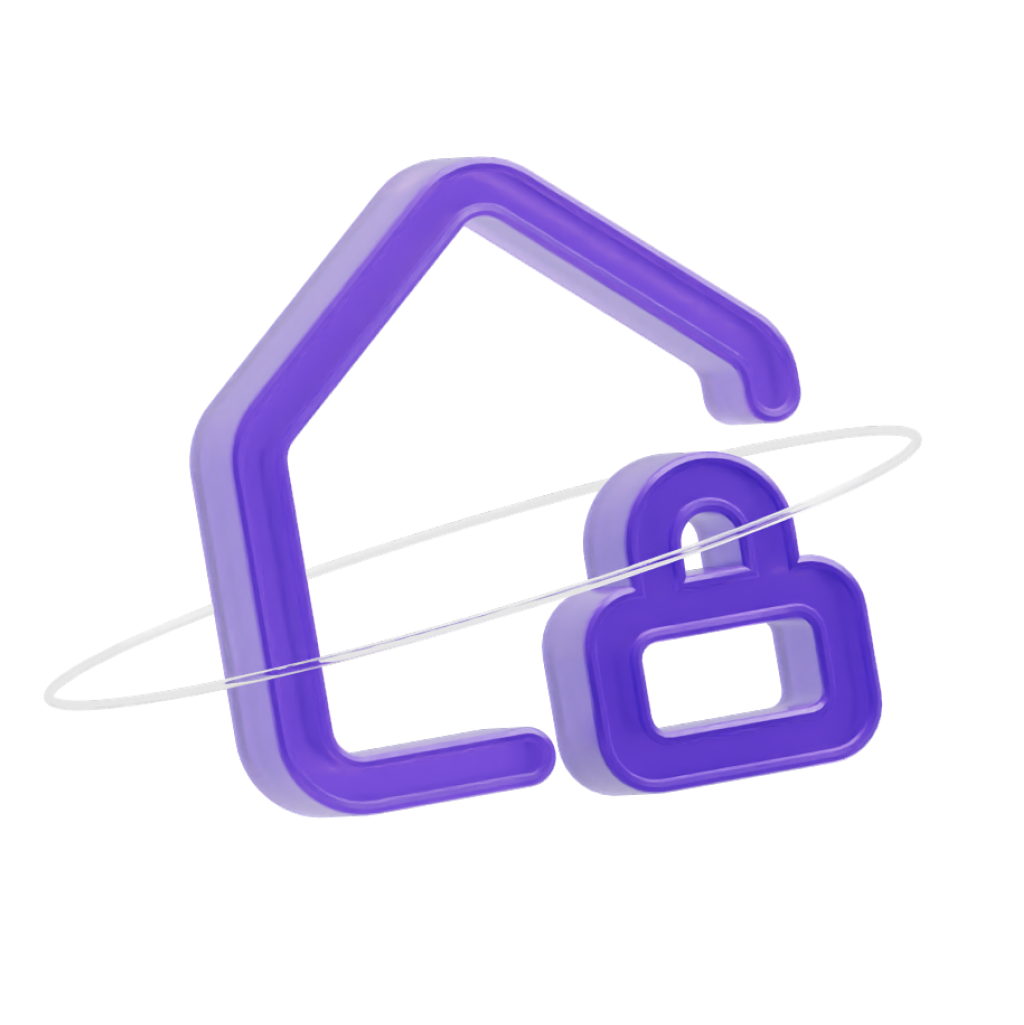
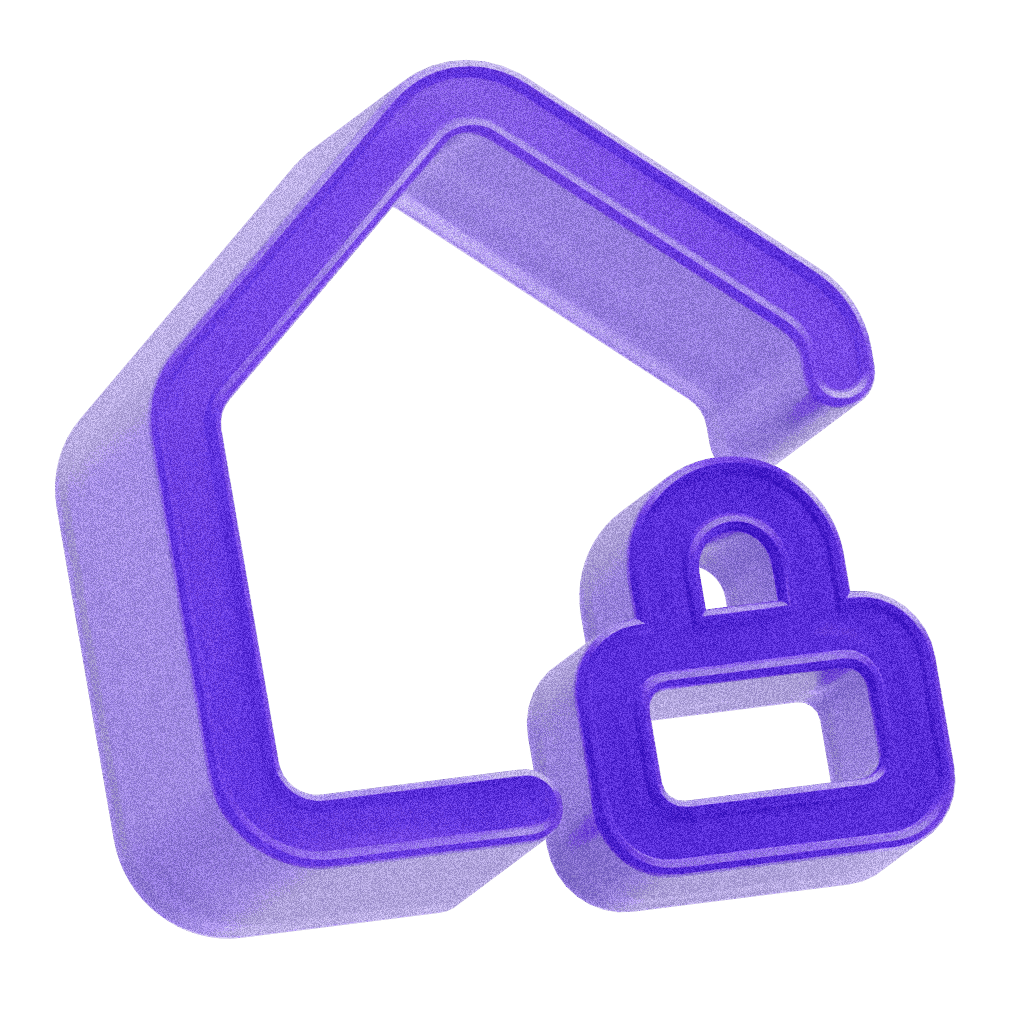
new

diff --git a/premium-styles.css b/premium-styles.css
@@ -243,7 +243,7 @@ h2.h-section{font-size:clamp(2rem,3.5vw,2.75rem);font-weight:800;line-height:1.1
     rgba(255,248,255,.32) 50%,
     rgba(255,255,255,.74) 76%,
     #fff 100%)}
-.hero__grid{position:relative;z-index:1;display:grid;grid-template-columns:1fr 560px;
+.hero__grid{position:relative;z-index:1;display:grid;grid-template-columns:1fr 480px;
   gap:44px;align-items:center}
 .hero__text{padding-top:24px;min-width:0}
 .hero__rating{display:flex;align-items:center;gap:8px;color:rgba(255,255,255,.72);
@@ -374,7 +374,17 @@ h2.h-section{font-size:clamp(2rem,3.5vw,2.75rem);font-weight:800;line-height:1.1
   width:100%;aspect-ratio:1/1;border-radius:20px;
   background:none;
   backdrop-filter:none}
+/* Soft, clean drop shadow that follows the PNG silhouette */
+.hero__placeholder img{
+  filter:drop-shadow(0 24px 40px rgba(20, 6, 40, .28));}
 .anim .hero__visual{opacity:0;animation:rise 1s var(--ease) .35s forwards}
+/* Image entrance: scale + fade in, layered on top of the container's rise */
+.anim .hero__placeholder img{
+  transform-origin:center;
+  animation:heroImgIn 1.1s var(--ease) .45s both}
+@keyframes heroImgIn{
+  from{opacity:0;transform:scale(.9) translateY(12px)}
+  to{opacity:1;transform:scale(1) translateY(0)}}
 .hv-panel{position:absolute;border-radius:var(--radius);
   background:linear-gradient(160deg,rgba(19,33,46,.92),rgba(13,23,34,.82));
   border:1px solid var(--border);backdrop-filter:blur(8px);